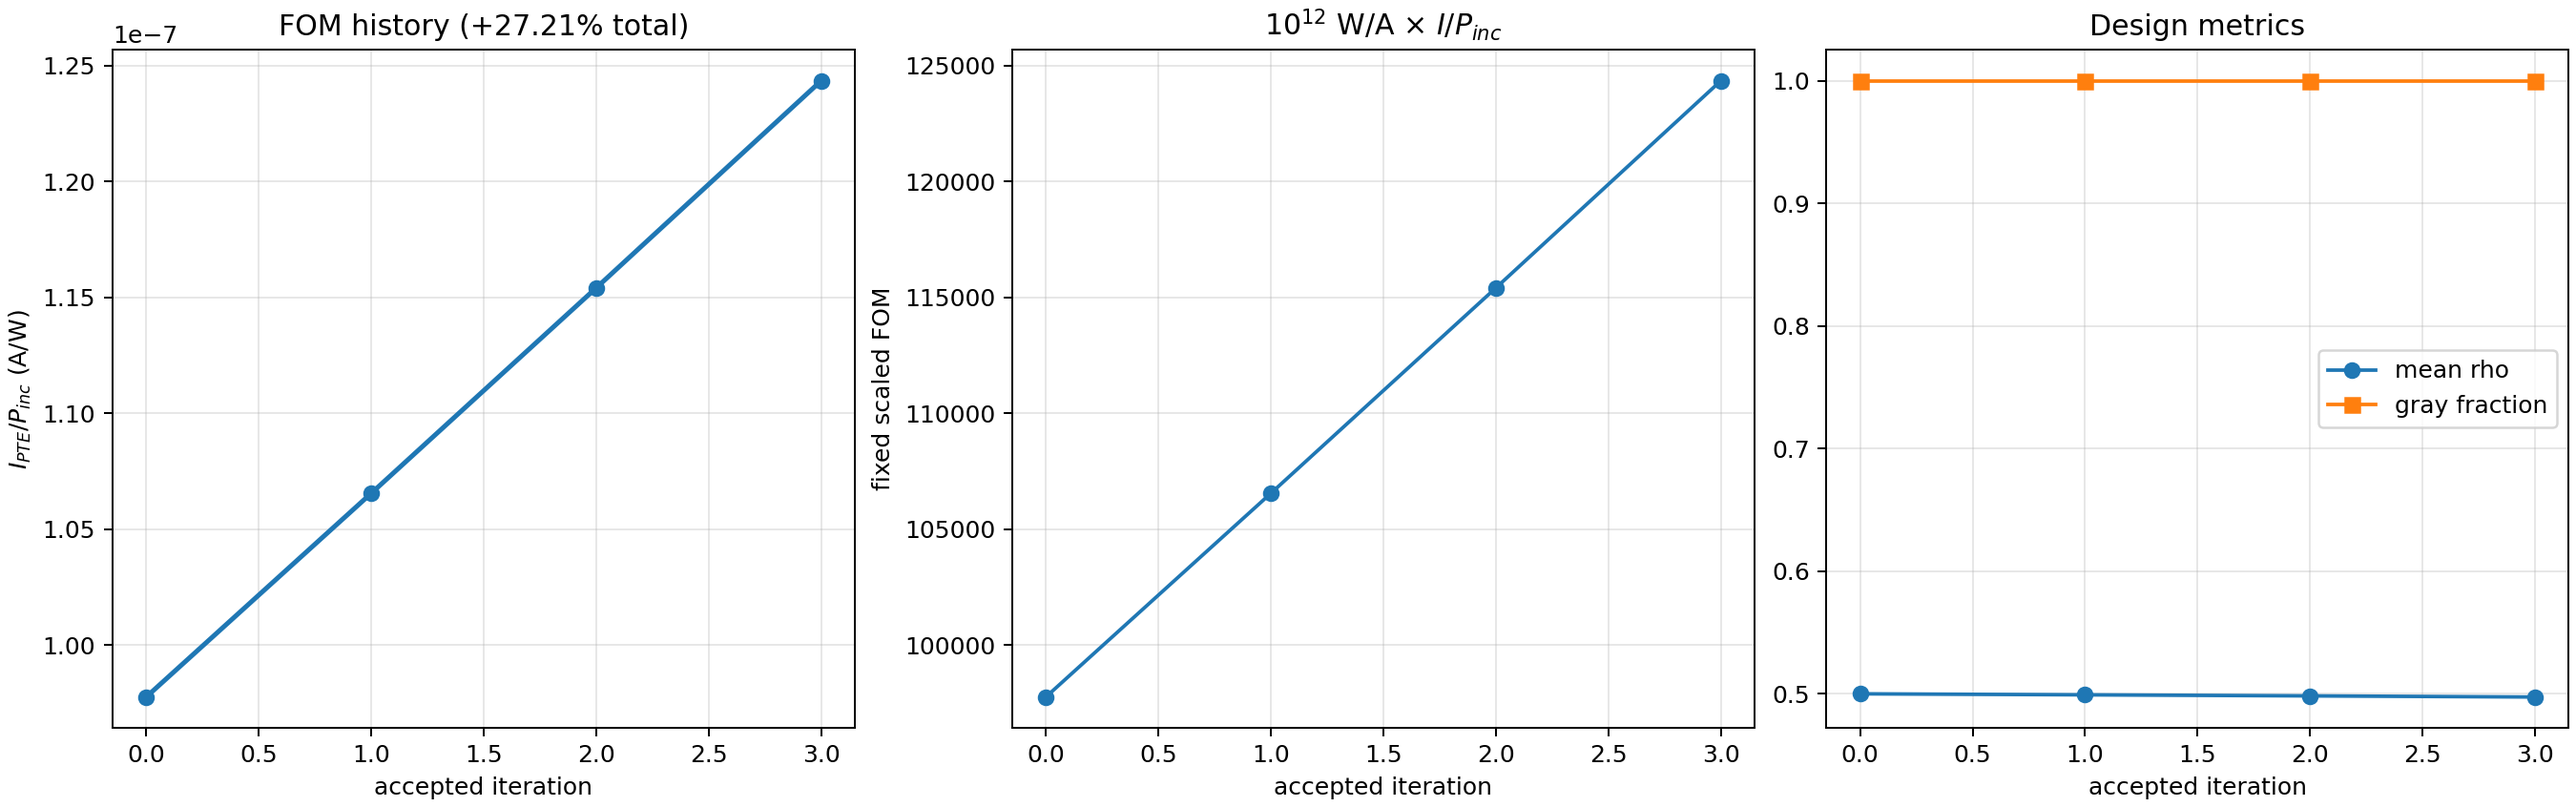
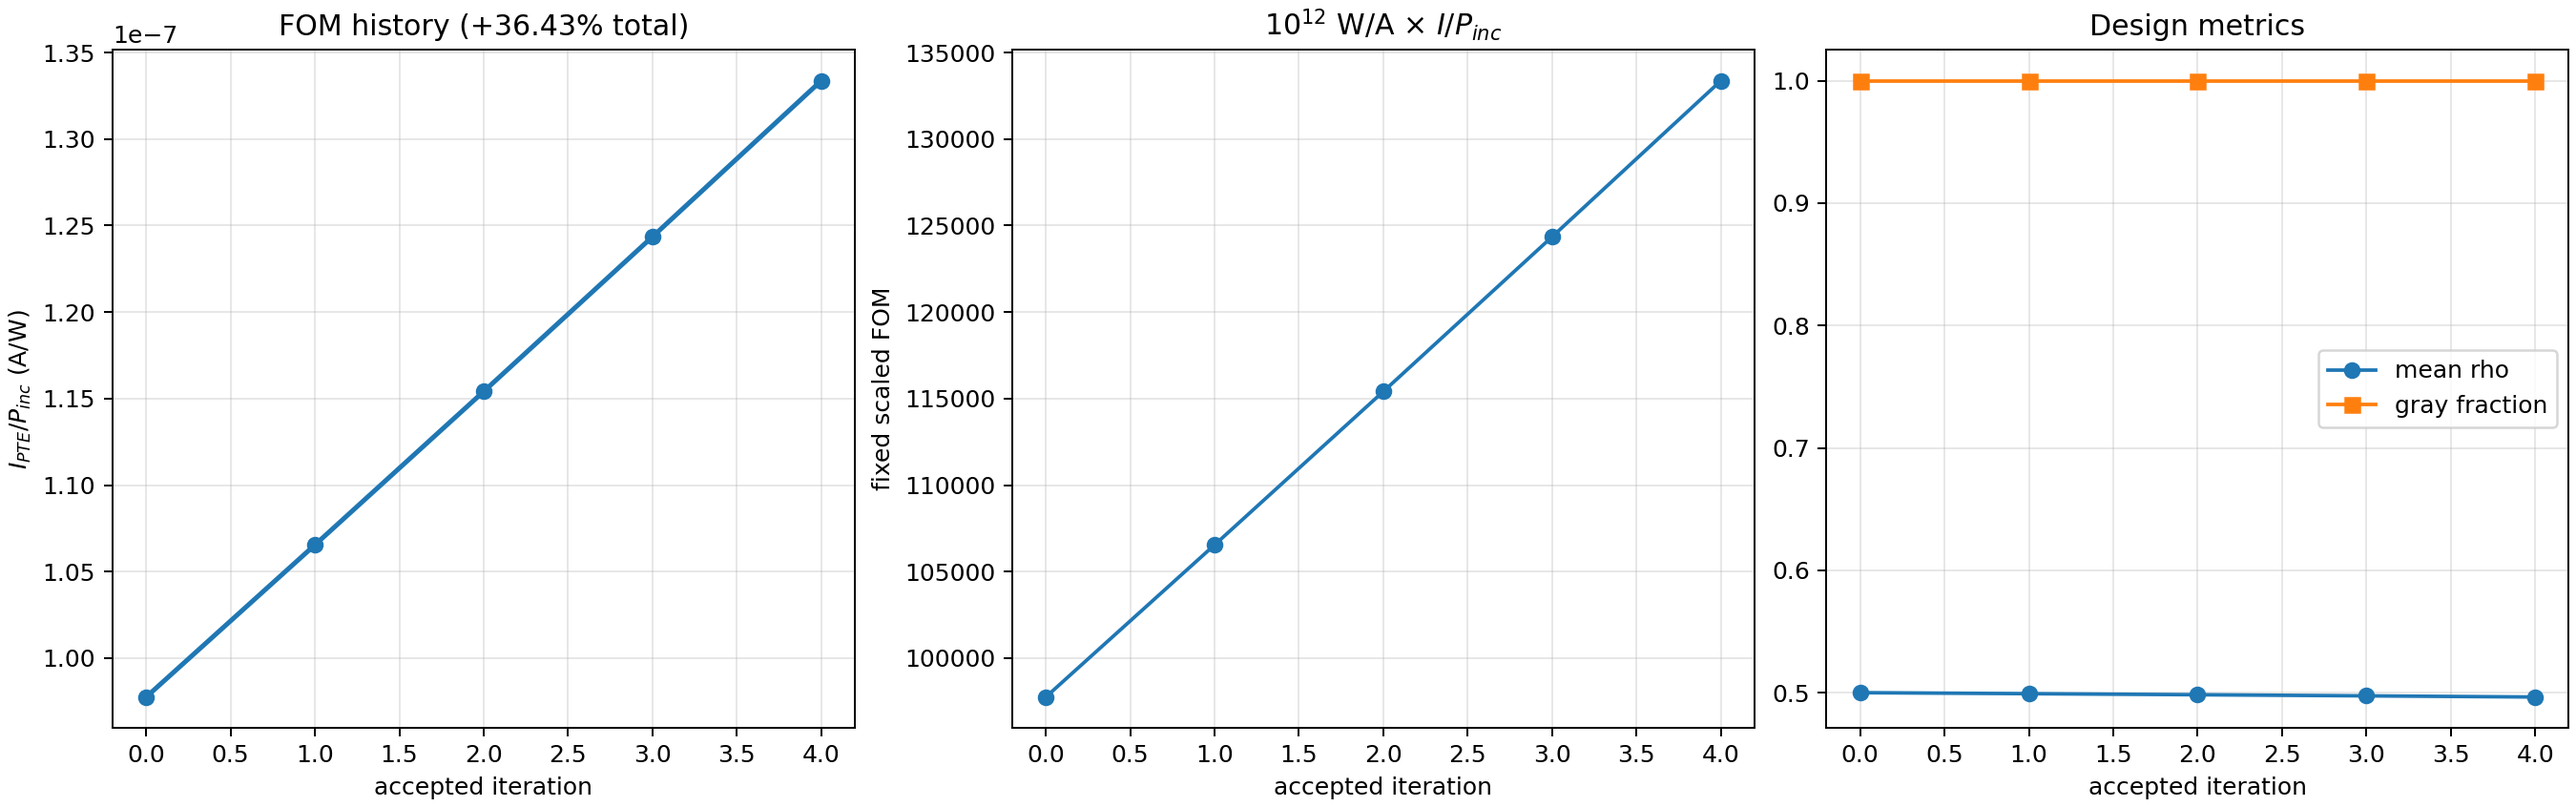
Accept nominal PTE optimization iteration 4

diff --git a/photothermal_pte/optimization_runs/run_002_gaussian10_w8p5_current_max/run_optimization.py b/photothermal_pte/optimization_runs/run_002_gaussian10_w8p5_current_max/run_optimization.py
@@ -53,7 +53,7 @@ def main() -> int:
         "combined physical-density AD-FD pass after named-source CW normalization "
         "was fixed. Full latent/filter/projection AD-FD also passes. Continuous "
         "optimization is numerically authorized and nominal beta=2 restartable MMA "
-        "iterations 1 through 3 have been accepted with SHA-pinned append-only checkpoints; "
+        "iterations 1 through 4 have been accepted with SHA-pinned append-only checkpoints; "
         "exact-binary DRC fixtures remain required before final fabrication promotion"
     )
     return 0

diff --git a/photothermal_pte/optimization_runs/run_002_gaussian10_w8p5_current_max/results/NOMINAL_MMA_PILOT_REPORT.md b/photothermal_pte/optimization_runs/run_002_gaussian10_w8p5_current_max/results/NOMINAL_MMA_PILOT_REPORT.md
@@ -8,7 +8,8 @@ Status: `RUNNING_NOMINAL_MMA_PILOT`
 | 1 | 1.472735412129e-20 | 1.065427703418e-07 | 8.993213% |
 | 2 | 1.595279824199e-20 | 1.154080566955e-07 | 18.062397% |
 | 3 | 1.718864663182e-20 | 1.243486111285e-07 | 27.208581% |
+| 4 | 1.843496571665e-20 | 1.333649141883e-07 | 36.432256% |
 
-Iteration 3 improves the previous accepted objective by `7.746907%` and the baseline by `27.208581%`. The fixed objective scale remains `1.000e+12 W/A`; it is not changed between iterations.
+Iteration 4 improves the previous accepted objective by `7.250827%` and the baseline by `36.432256%`. The fixed objective scale remains `1.000e+12 W/A`; it is not changed between iterations.
 
 This remains a continuous beta=2 grown/grown +I pilot using the uniform-45° weighting surrogate. Each accepted design is generated by a restartable one-step NLopt LD_MMA proposal; internal MMA asymptote history is not persisted across server-safe checkpoints. Exact binary DRC, opposite sign, named interface robustness, and full electrodes remain pending.

diff --git a/photothermal_pte/optimization_runs/run_002_gaussian10_w8p5_current_max/README.md b/photothermal_pte/optimization_runs/run_002_gaussian10_w8p5_current_max/README.md
@@ -226,3 +226,7 @@ Accepted iteration 3 reaches `1.718864663182e-20 A`, improving by `7.7469%`
 from iteration 2 and by `27.2086%` from the initial state. Its GPU-only optical
 closure is `4.6535e-6`; CUDA thermal residual and energy-balance errors are
 `9.8883e-11` and `1.2735e-12`, respectively.
+
+Accepted iteration 4 reaches `1.843496571665e-20 A`, improving by `7.2508%`
+from iteration 3 and by `36.4323%` from the initial state. Optical closure,
+CUDA thermal residual, and energy balance remain within their frozen gates.

diff --git a/photothermal_pte/optimization_runs/run_002_gaussian10_w8p5_current_max/checkpoints/README.md b/photothermal_pte/optimization_runs/run_002_gaussian10_w8p5_current_max/checkpoints/README.md
@@ -1,5 +1,5 @@
 # Checkpoints
 
-Accepted iterations 1 through 3 have external compact optimizer-state NPZ files. Binary
+Accepted iterations 1 through 4 have external compact optimizer-state NPZ files. Binary
 checkpoints remain outside Git and are path/size/SHA-256 pinned in the run
 manifest; reports and plots in this directory's sibling folders are committed.
